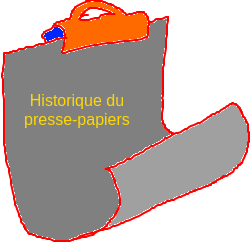
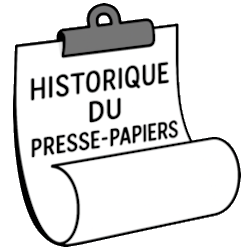
Ajout du menu contextuel & tests divers (mais ça va sans doute disparaître) Tentative d'ajout d'un raccourci clavier pour activer l'applet Changement de l'icône

diff --git a/files/historique-presse-papiers@axaul/applet.js b/files/historique-presse-papiers@axaul/applet.js
@@ -2,29 +2,84 @@ const Applet = imports.ui.applet;
 const Util = imports.misc.util;
 const Main = imports.ui.main;
 const AppletDir = imports.ui.appletManager.appletMeta['historique-presse-papiers@axaul'].path;
+const PopupMenu = imports.ui.popupMenu;
+const St = imports.gi.St;
+const Clutter = imports.gi.Clutter;
 
 const UUID = "historique-presse-papiers@axaul";
+const NOMBRE_MAXIMAL_ELEMENTS = 15;
 
-function HistoriquePressePapiers(orientation, panelHeight, instanceId) {
-    this._init(orientation, panelHeight, instanceId);
+function HistoriquePressePapiers(orientation) {
+    this._init(orientation);
 }
 
 HistoriquePressePapiers.prototype = {
     __proto__: Applet.IconApplet.prototype,
 
-    _init: function(orientation, panelHeight, instanceId) {
-        Applet.IconApplet.prototype._init.call(this, orientation, panelHeight, instanceId);
+    _init: function(orientation) {
+        Applet.IconApplet.prototype._init.call(this, orientation);
 
         this.set_applet_icon_path(AppletDir + '/icon.png');
         this.set_applet_tooltip("Ouvrir l'historique du presse-papiers");
+
+        // Ajout de la partie IHM
+        this.menu = new Applet.AppletPopupMenu(this,orientation);
+        this._applet_context_menu.addMenuItem(new PopupMenu.PopupMenuItem("Paramètres..."));
+
+        let clearAll = new PopupMenu.PopupMenuItem("🗑 Vider tout l'historique");
+        clearAll.connect("activate", () => {
+            Main.notify("Historique vidé !");
+            this.clearClipboardItems();
+        });
+        this.menu.addMenuItem(clearAll);
+        this.menu.addMenuItem(new PopupMenu.PopupSeparatorMenuItem());
+
+        this.clipboardItems = [];
+
+        // Simule l'ajout d'éléments dans le presse-papiers
+        this.addClipboardEntry("Texte copié 2");
+        this.addClipboardEntry("Bien le bonjour");
     },
 
     on_applet_clicked: function() {
-        // pour l'instant j'envoie juste une notification
-        Main.notify("Hitorique du presse-papiers", "Applet cliqué.");
+        this.menu.toggle();
+    },
+
+    addClipboardEntry: function(contenu) {
+        let item = new PopupMenu.PopupBaseMenuItem();
+        let box = new St.BoxLayout({vertical:false});
+
+        let labelContenu = new St.Label({text:`"${contenu}"`, x_expand: true});
+
+        let boutonCopier = new St.Button({label: "Copier"});
+        boutonCopier.connect("clicked", () => {
+            St.Clipboard.get_default().set_text(St.ClipboardType.CLIPBOARD, contenu);
+            Main.notify("Copié dans le presse-papiers", contenu);
+        });
+
+        let boutonSupprimer = new St.Button({label:"Supprimer"});
+        boutonSupprimer.connect("clicked", () => {
+            this.menu.box.remove_child(item.actor);
+            this.clipboardItems = this.clipboardItems.filter(i => i !== item);
+        });
+
+        box.add_child(labelContenu);
+        box.add_child(boutonCopier);
+        box.add_child(boutonSupprimer);
+
+        item.actor.add_child(box);
+        this.menu.addMenuItem(item);
+        this.clipboardItems.push(item);
+    },
+
+    clearClipboardItems: function() {
+        for(let item of this.clipboardItems) {
+            this.menu.box.remove_child(item.actor);
+        }
+        this.clipboardItems = [];
     }
 };
 
-function main(metadata, orientation, panelHeight, instanceId) {
-    return new HistoriquePressePapiers(orientation, panelHeight, instanceId);
+function main(metadata, orientation) {
+    return new HistoriquePressePapiers(orientation);
 }
